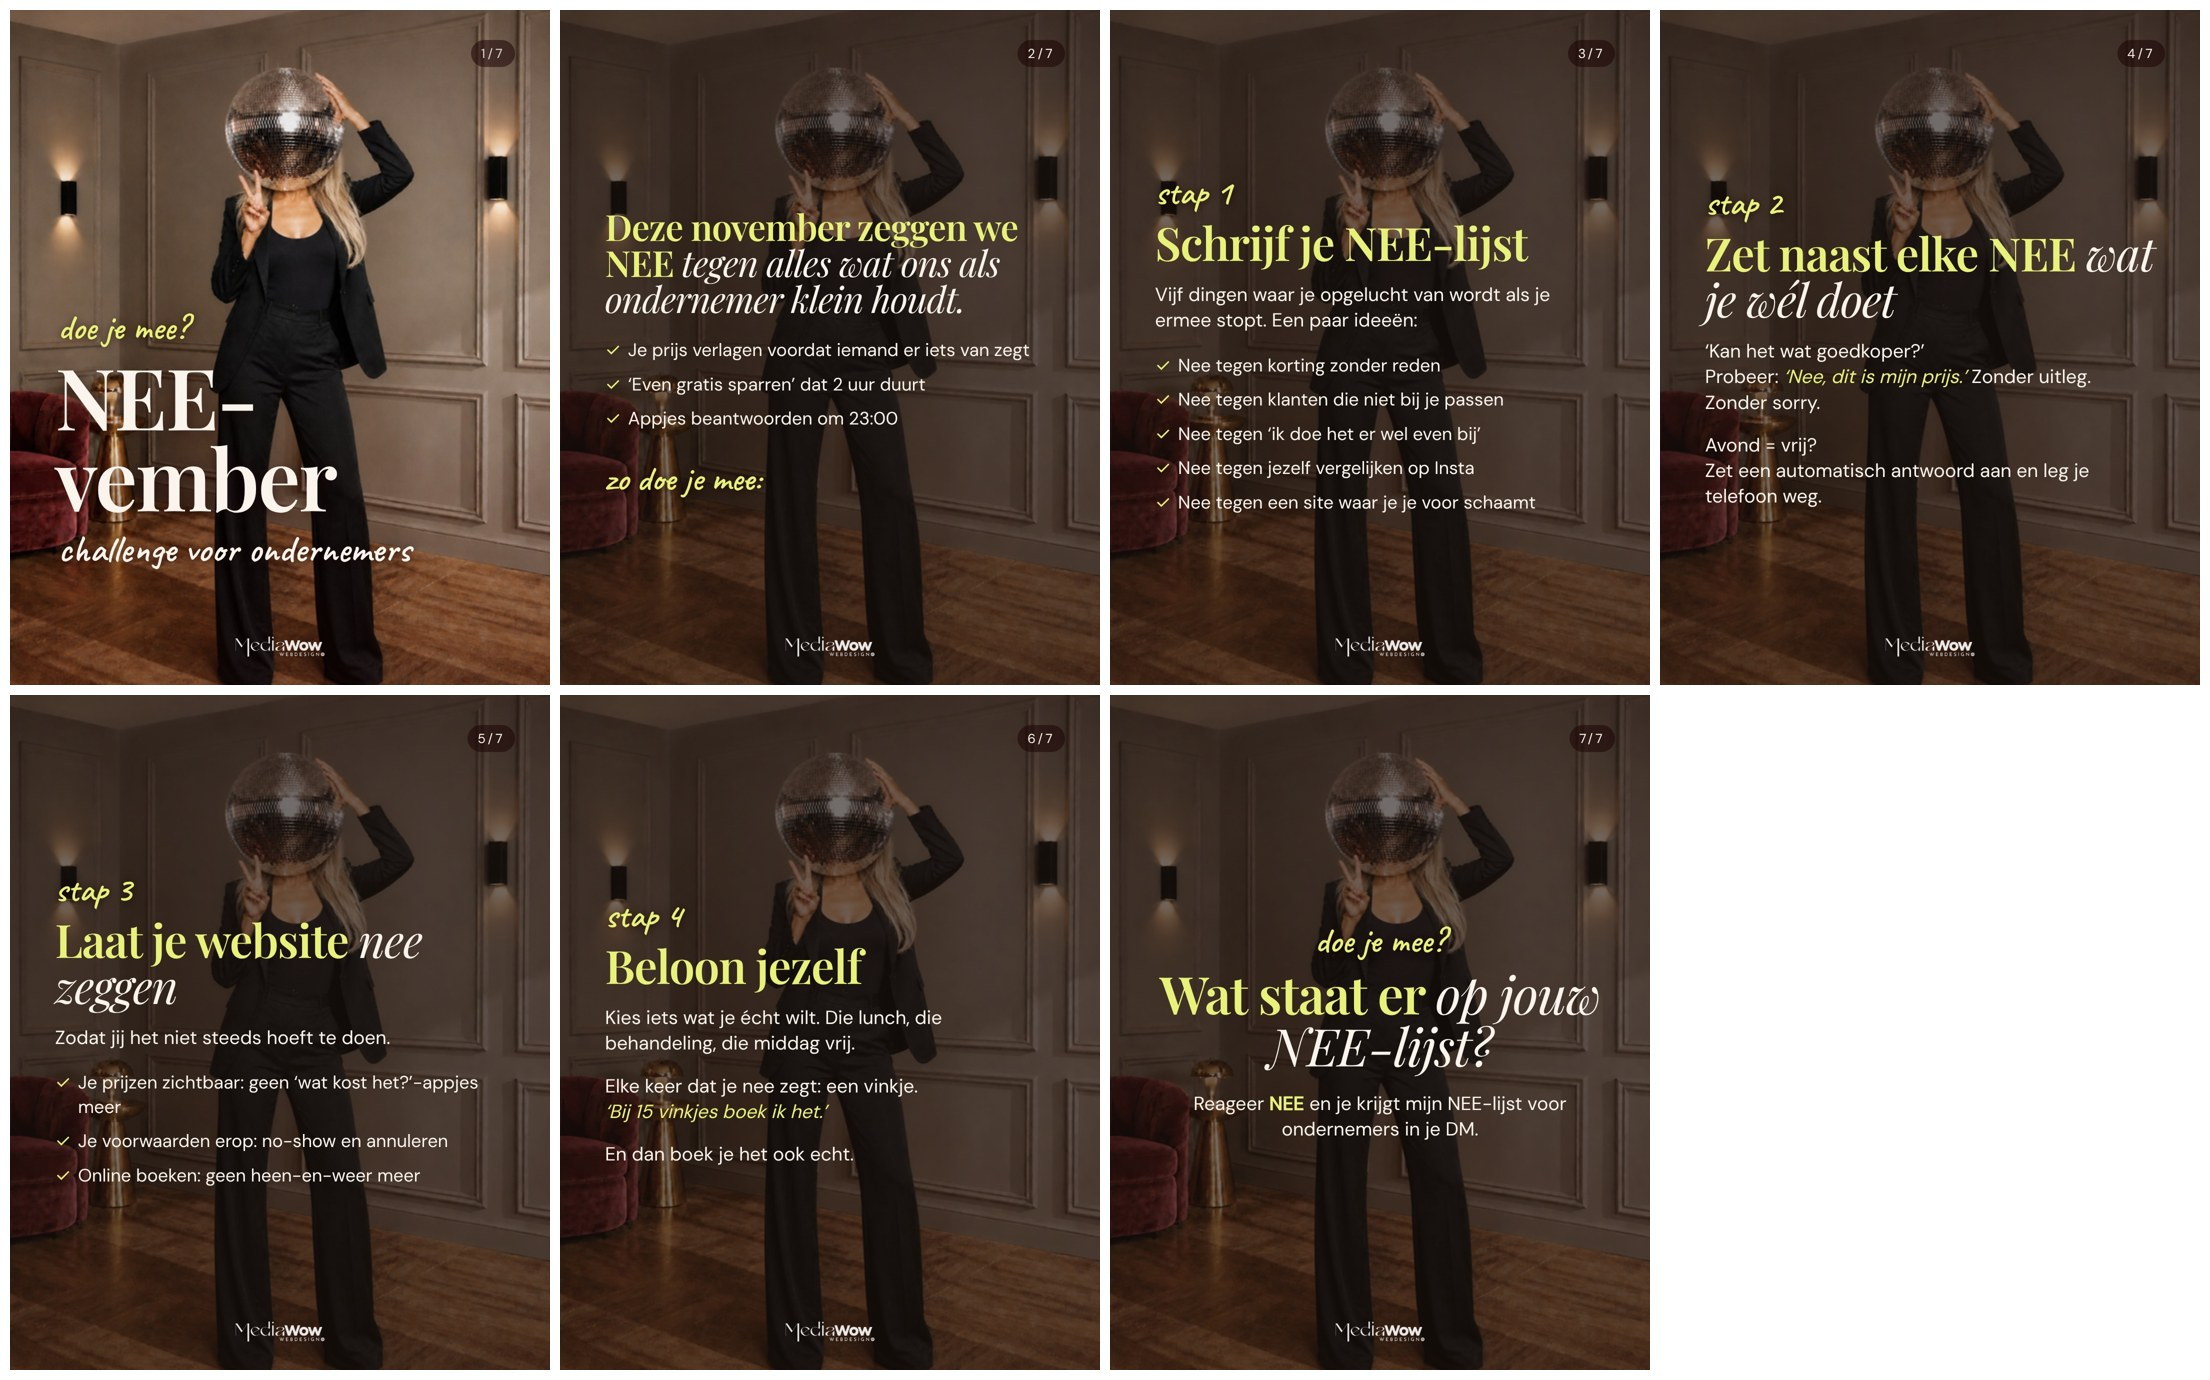
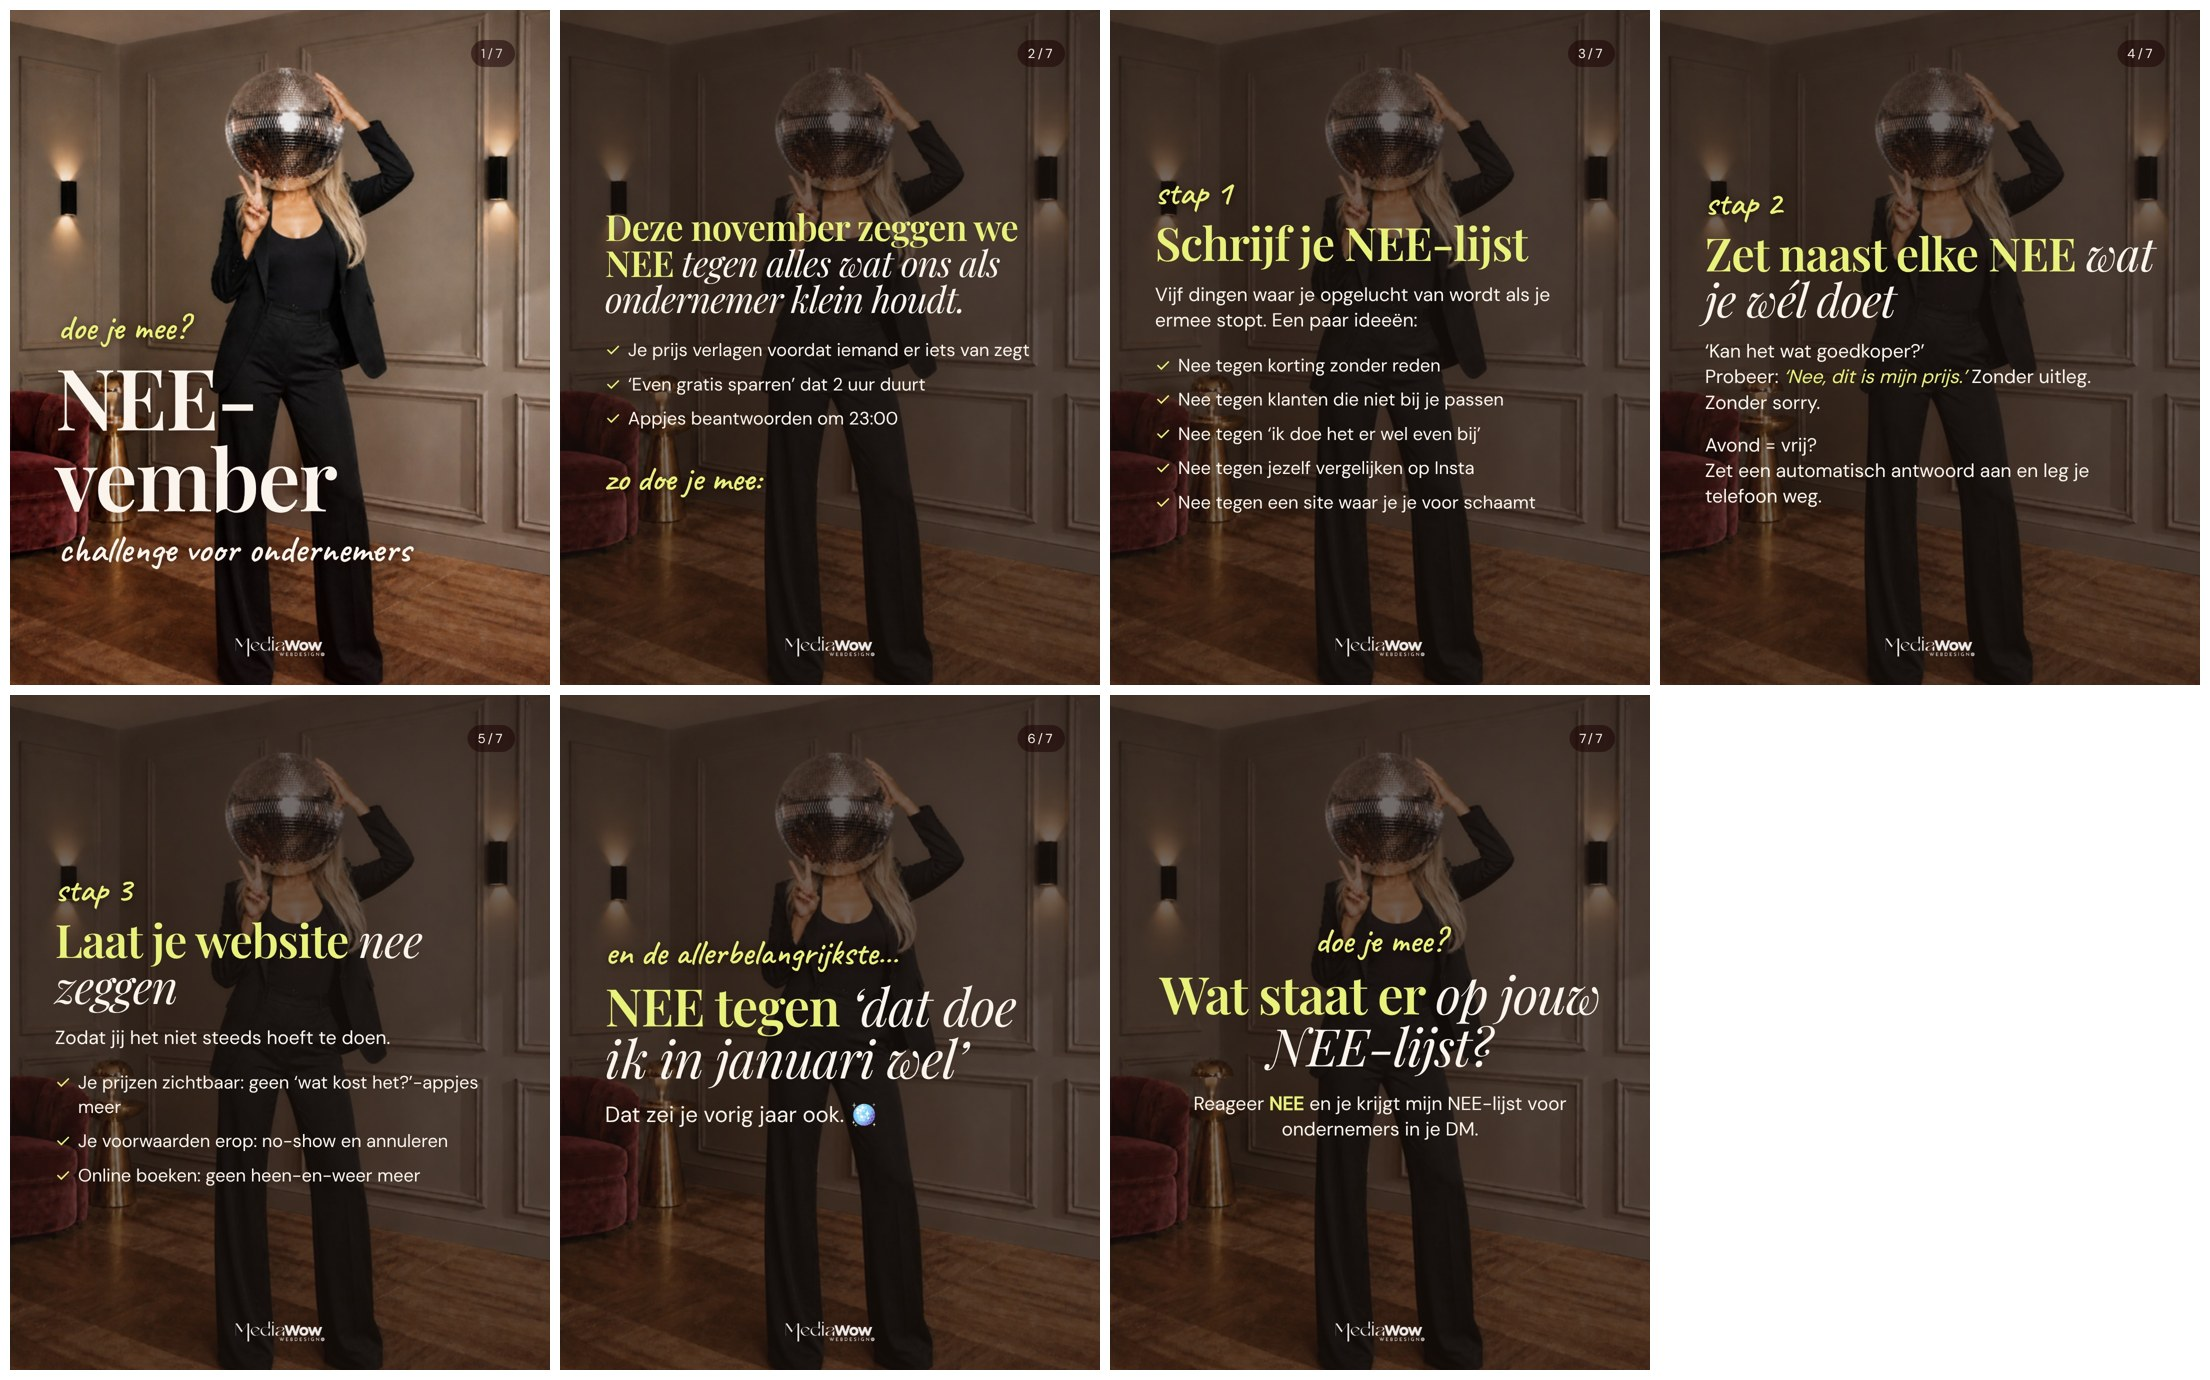
NEE-vember: grappige afsluiter i.p.v. beloon jezelf
Claude-Session: https://claude.ai/code/session_01RBQ5c9Pv2G8CobvSf5vDwJ

Changed region(s): [[0.2498, 0.6543, 0.4683, 0.8413]]

diff --git a/instagram/nee-vember/make.js b/instagram/nee-vember/make.js
@@ -39,10 +39,8 @@ const slides = [
   wrap(`<div class="c"><div class="hand">stap 3</div><h2>Laat je website <i>nee zeggen</i></h2>
     <p>Zodat jij het niet steeds hoeft te doen.</p>
     <ul><li>Je prijzen zichtbaar: geen ‘wat kost het?’-appjes meer</li><li>Je voorwaarden erop: no-show en annuleren</li><li>Online boeken: geen heen-en-weer meer</li></ul></div>`, 5),
-  wrap(`<div class="c"><div class="hand">stap 4</div><h2>Beloon jezelf</h2>
-    <p>Kies iets wat je écht wilt. Die lunch, die behandeling, die middag vrij.</p>
-    <p style="margin-top:34px">Elke keer dat je nee zegt: een vinkje.<br><span style="color:#E8F27A;font-style:italic">‘Bij 15 vinkjes boek ik het.’</span></p>
-    <p style="margin-top:34px">En dan boek je het ook echt.</p></div>`, 6),
+  wrap(`<div class="c"><div class="hand">en de allerbelangrijkste…</div><h2 style="font-size:104px">NEE tegen <i>‘dat doe ik in januari wel’</i></h2>
+    <p style="font-size:44px">Dat zei je vorig jaar ook. 🪩</p></div>`, 6),
   wrap(`<div class="c" style="text-align:center"><div class="hand">doe je mee?</div>
     <h2 style="font-size:104px;margin-bottom:40px">Wat staat er <i>op jouw NEE-lijst?</i></h2>
     <p>Reageer <b style="color:#E8F27A">NEE</b> en je krijgt mijn NEE-lijst voor ondernemers in je DM.</p></div>`, 7),
